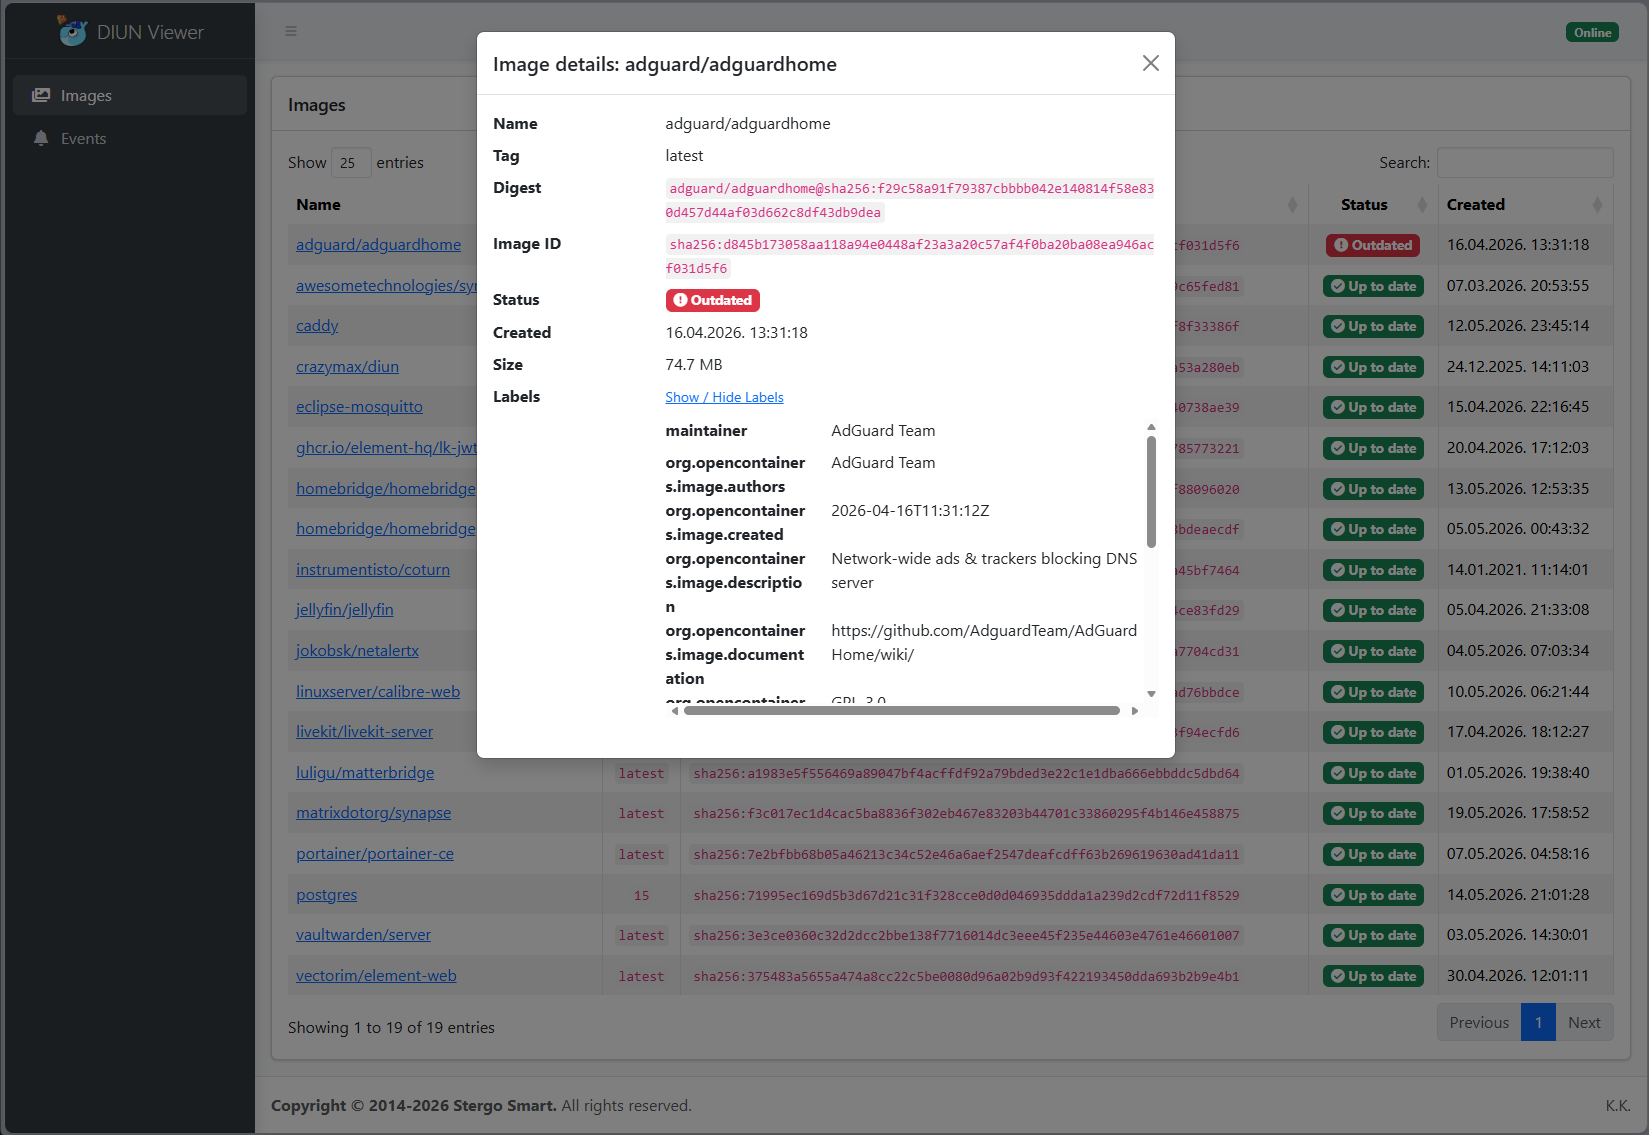
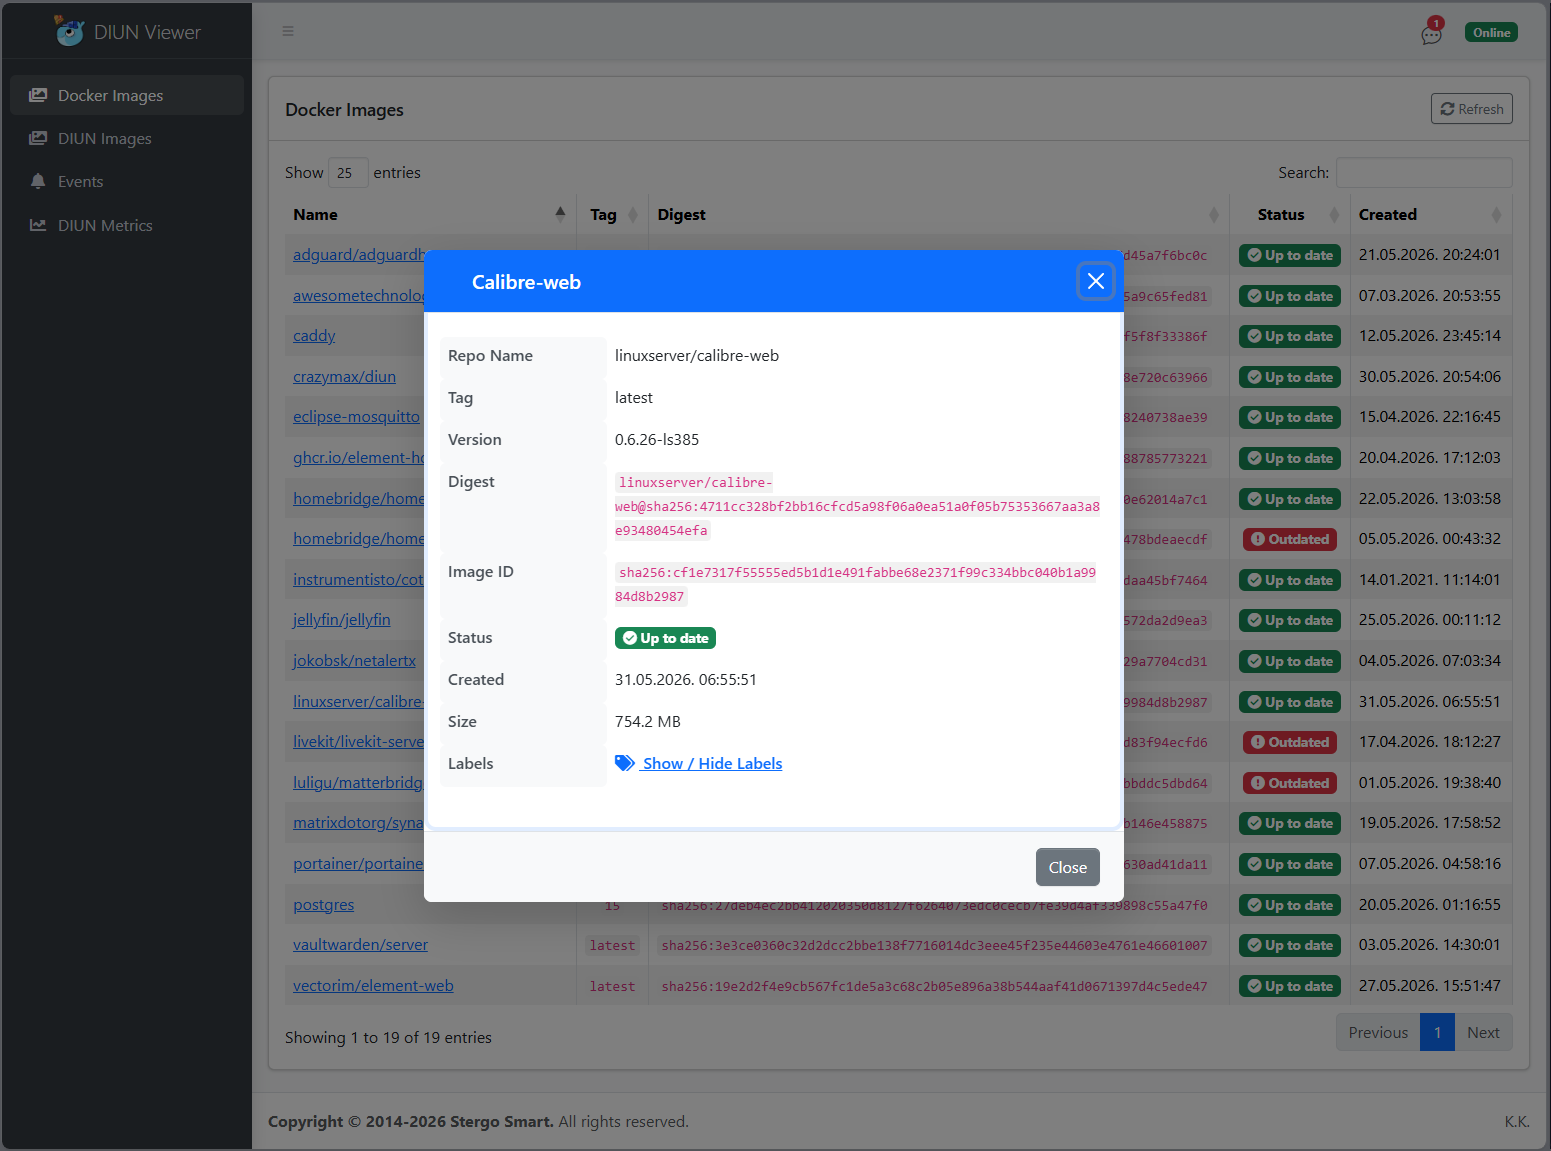
Metrics and small fixes

diff --git a/README.md b/README.md
@@ -224,10 +224,18 @@ MIT License
 See LICENSE for details.
 
 
-| Images | Events |
+| Docker | Diun |
 |--------|--------|
-| ![Images](DOCS/Images.png) | ![Events](DOCS/Events.png) |
+| ![Images](DOCS/DockerImages.png) | ![Events](DOCS/Events.png) |
 
 | Image Details |
 |---------------|
 | ![Image Modal](DOCS/ImagesModal.png) |
+
+| Events  |
+|---------------|
+| ![Image Modal](DOCS/Events.png) |
+
+| Metrics  |
+|---------------|
+| ![Image Modal](DOCS/metrics.png) |
